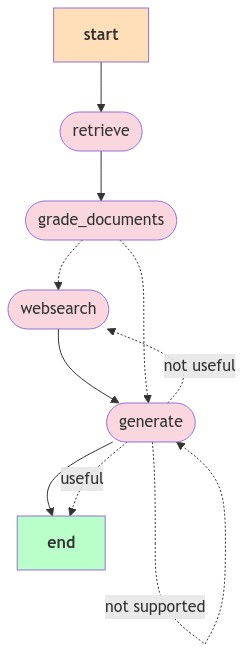
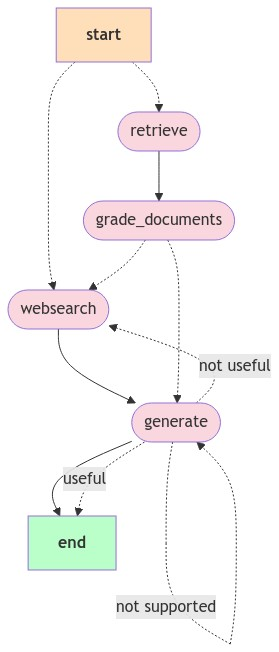
adaptive rag

diff --git a/graph/graph.py b/graph/graph.py
@@ -1,10 +1,10 @@
 from dotenv import load_dotenv
-
 from langgraph.graph import END, StateGraph
 
 from graph.chains.answer_grader import answer_grader
 from graph.chains.hallucination_grader import hallucination_grader
-from graph.consts import RETRIEVE, GRADE_DOCUMENTS, GENERATE, WEBSEARCH
+from graph.chains.router import RouteQuery, question_router
+from graph.consts import GENERATE, GRADE_DOCUMENTS, RETRIEVE, WEBSEARCH
 from graph.nodes import generate, grade_documents, retrieve, web_search
 from graph.state import GraphState
 
@@ -49,6 +49,18 @@ def grade_generation_grounded_in_documents_and_question(state: GraphState) -> st
         return "not supported"
 
 
+def route_question(state: GraphState) -> str:
+    print("---ROUTE QUESTION---")
+    question = state["question"]
+    source: RouteQuery = question_router.invoke({"question": question})
+    if source.datasource == WEBSEARCH:
+        print("---ROUTE QUESTION TO WEB SEARCH---")
+        return WEBSEARCH
+    elif source.datasource == "vectorstore":
+        print("---ROUTE QUESTION TO RAG---")
+        return RETRIEVE
+
+
 workflow = StateGraph(GraphState)
 
 workflow.add_node(RETRIEVE, retrieve)
@@ -56,7 +68,14 @@ workflow.add_node(GRADE_DOCUMENTS, grade_documents)
 workflow.add_node(GENERATE, generate)
 workflow.add_node(WEBSEARCH, web_search)
 
-workflow.set_entry_point(RETRIEVE)
+# workflow.set_entry_point(RETRIEVE)
+workflow.set_conditional_entry_point(
+    route_question,
+    {
+        WEBSEARCH: WEBSEARCH,
+        RETRIEVE: RETRIEVE,
+    },
+)
 workflow.add_edge(RETRIEVE, GRADE_DOCUMENTS)
 workflow.add_conditional_edges(
     GRADE_DOCUMENTS,

diff --git a/graph/chains/router.py b/graph/chains/router.py
@@ -1,0 +1,37 @@
+import os
+from typing import Literal
+
+from langchain_core.prompts import ChatPromptTemplate
+from langchain_core.pydantic_v1 import BaseModel, Field
+from langchain_openai import ChatOpenAI
+
+
+class RouteQuery(BaseModel):
+    """Route a user query to the most relevant datasource."""
+
+    datasource: Literal["vectorstore", "websearch"] = Field(
+        ...,
+        description="Given a user question choose to route it to web search or a vectorstore.",
+    )
+
+
+llm = ChatOpenAI(
+    api_key=os.getenv("DASHSCOPE_API_KEY"),
+    base_url="https://dashscope.aliyuncs.com/compatible-mode/v1",
+    model="qwen-plus",
+    temperature=0,
+    # other params...
+)
+structured_llm_router = llm.with_structured_output(RouteQuery)
+
+system = """You are an expert at routing a user question to a vectorstore or web search.
+The vectorstore contains documents related to agents, prompt engineering, and adversarial attacks.
+Use the vectorstore for questions on these topics. For all else, use web-search."""
+route_prompt = ChatPromptTemplate.from_messages(
+    [
+        ("system", system),
+        ("human", "{question}"),
+    ]
+)
+
+question_router = route_prompt | structured_llm_router

diff --git a/graph/chains/tests/test_chains.py b/graph/chains/tests/test_chains.py
@@ -1,15 +1,15 @@
-from dotenv import load_dotenv
-
 from pprint import pprint
 
+from dotenv import load_dotenv
 
 load_dotenv()
 
 
-from graph.chains.retrieval_grader import GradeDocuments, retrieval_grader
 from graph.chains.generation import generation_chain
-from graph.chains.hallucination_grader import hallucination_grader, GradeHallucinations
-
+from graph.chains.hallucination_grader import (GradeHallucinations,
+                                               hallucination_grader)
+from graph.chains.retrieval_grader import GradeDocuments, retrieval_grader
+from graph.chains.router import RouteQuery, question_router
 from ingestion import retriever
 
 
@@ -66,3 +66,17 @@ def test_hallucination_grader_answer_no() -> None:
         }
     )
     assert not res.binary_score
+
+
+def test_router_to_vectorstore() -> None:
+    question = "agent memory"
+
+    res: RouteQuery = question_router.invoke({"question": question})
+    assert res.datasource == "vectorstore"
+
+
+def test_router_to_websearch() -> None:
+    question = "how to make pizza"
+
+    res: RouteQuery = question_router.invoke({"question": question})
+    assert res.datasource == "websearch"

diff --git a/graph/chains/hallucination_grader.py b/graph/chains/hallucination_grader.py
@@ -1,9 +1,10 @@
+import os
+
 from langchain_core.prompts import ChatPromptTemplate
 from langchain_core.pydantic_v1 import BaseModel, Field
 from langchain_core.runnables import RunnableSequence
 from langchain_openai import ChatOpenAI
 
-import os
 llm = ChatOpenAI(
     api_key=os.getenv("DASHSCOPE_API_KEY"),
     base_url="https://dashscope.aliyuncs.com/compatible-mode/v1",
@@ -11,6 +12,7 @@ llm = ChatOpenAI(
     temperature=0,
     # other params...
 )
+
 
 class GradeHallucinations(BaseModel):
     """Binary score for hallucination present in generation answer."""

diff --git a/graph/chains/generation.py b/graph/chains/generation.py
@@ -1,7 +1,9 @@
+import os
+
 from langchain import hub
 from langchain_core.output_parsers import StrOutputParser
 from langchain_openai import ChatOpenAI
-import os
+
 llm = ChatOpenAI(
     api_key=os.getenv("DASHSCOPE_API_KEY"),
     base_url="https://dashscope.aliyuncs.com/compatible-mode/v1",

diff --git a/graph/chains/answer_grader.py b/graph/chains/answer_grader.py
@@ -1,8 +1,10 @@
+import os
+
 from langchain_core.prompts import ChatPromptTemplate
 from langchain_core.pydantic_v1 import BaseModel, Field
 from langchain_core.runnables import RunnableSequence
 from langchain_openai import ChatOpenAI
-import os
+
 
 class GradeAnswer(BaseModel):
 

diff --git a/graph/chains/retrieval_grader.py b/graph/chains/retrieval_grader.py
@@ -1,7 +1,8 @@
+import os
+
 from langchain_core.prompts import ChatPromptTemplate
 from langchain_core.pydantic_v1 import BaseModel, Field
 from langchain_openai import ChatOpenAI
-import os
 
 llm = ChatOpenAI(
     api_key=os.getenv("DASHSCOPE_API_KEY"),
